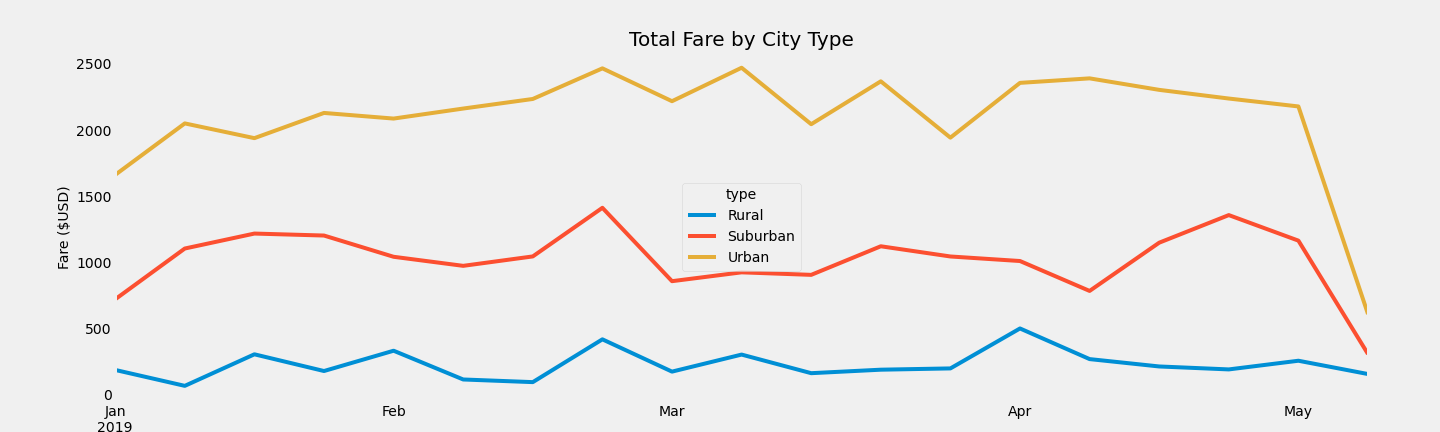
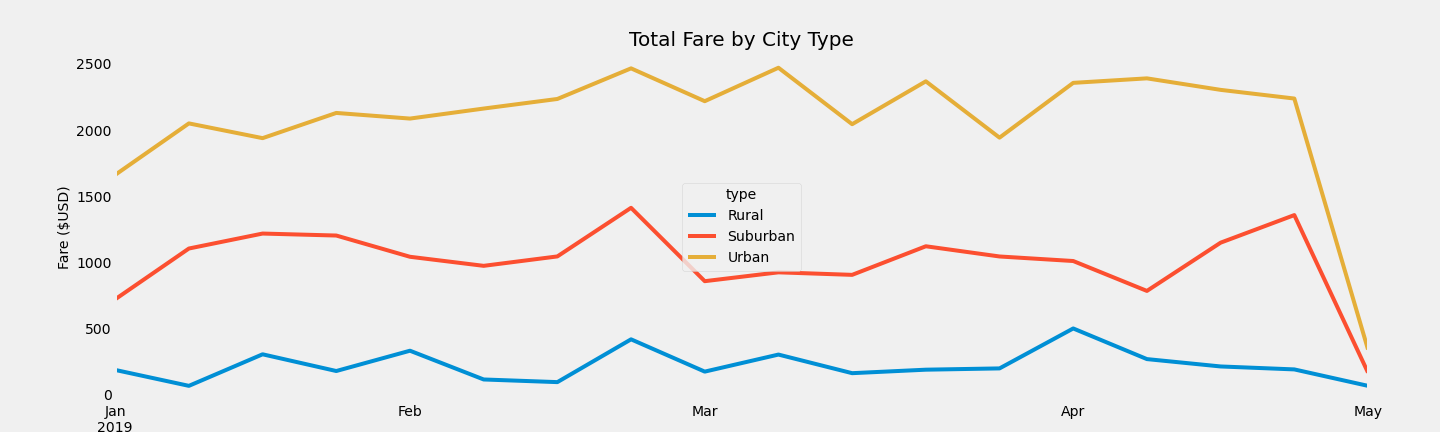
adding ride_sharing and updating Readme.

diff --git a/README.md b/README.md
@@ -1,2 +1,27 @@
 # PyBer_Analysis
 Python, Matplotlib, Pandas, NumPy
+
+## Overview of the analysis:
+
+To analysis and create summary DataFrame of the ride-sharing data by city type and create a multiple-line graph that shows the total weekly fares for each city type that can be used for decision-making for V. Isualize.
+
+
+## Results:
+
+### A ride-sharing summary DataFrame by city type
+![A ride-sharing summary DataFrame by city type](
+
+Accordng to the ride-sharing sammary data among the different city types, urban city has the highest total rides, total drivers, and total fares, then suburban and rural,respectively. On the other hand, rural city is the highest average fare per ride and driver, and following by suburban and urban,respectively. In summary, the urban area that has more peopel live in town will have more damand in drivers and user which will generate more fare, but fare rate per ride and driver will be less than suburban and rural areas.
+
+
+### A multiple-line chart of total fares for each city type
+![A multiple-line chart of total fares for each city type](
+
+The multiple-line chart shows relatively the total fares for each city type by week for V. Isualize. 
+Urban city always has the highest total fares, then suburban and rural,respectively. The week before March has generated the most total fares for all city types, then significately recline untill March. After March, rural and suburban appears relatively linear, but is happening at a slower rate than change in the urban trend.
+
+ 
+
+## Summary:
+
+There is a statement summarizing three business recommendations to the CEO for addressing any disparities among the city types. (4 pt)
